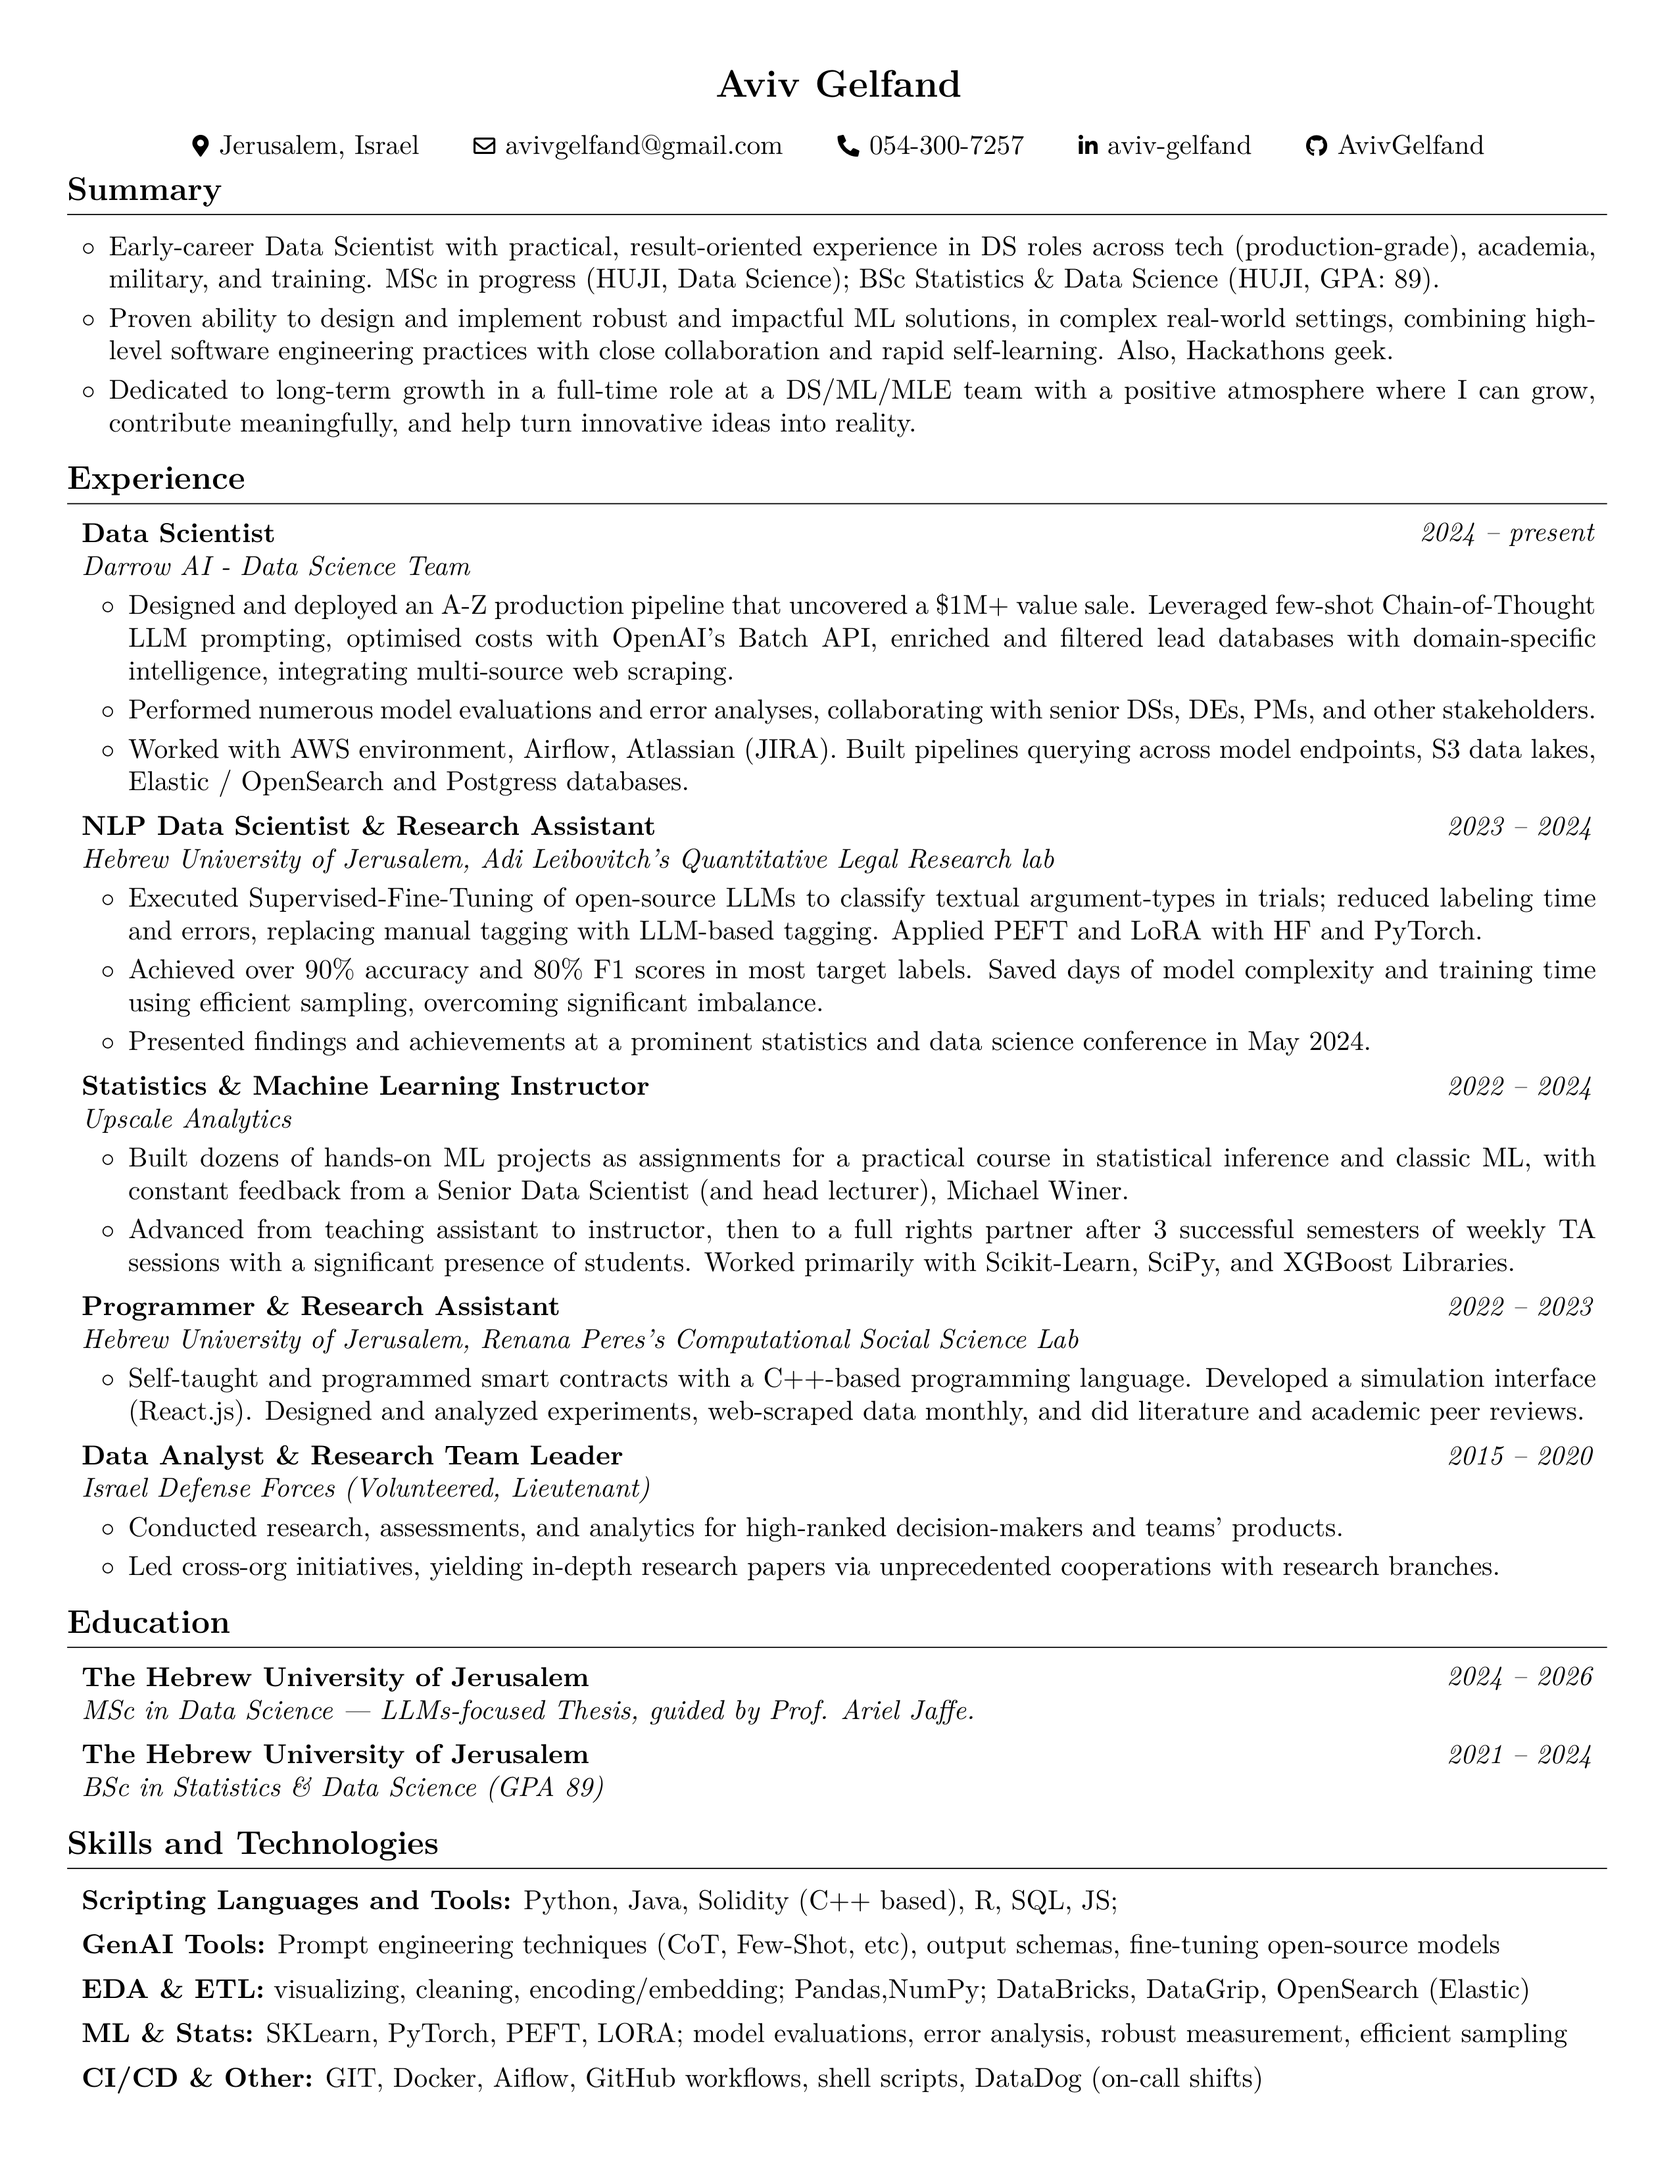
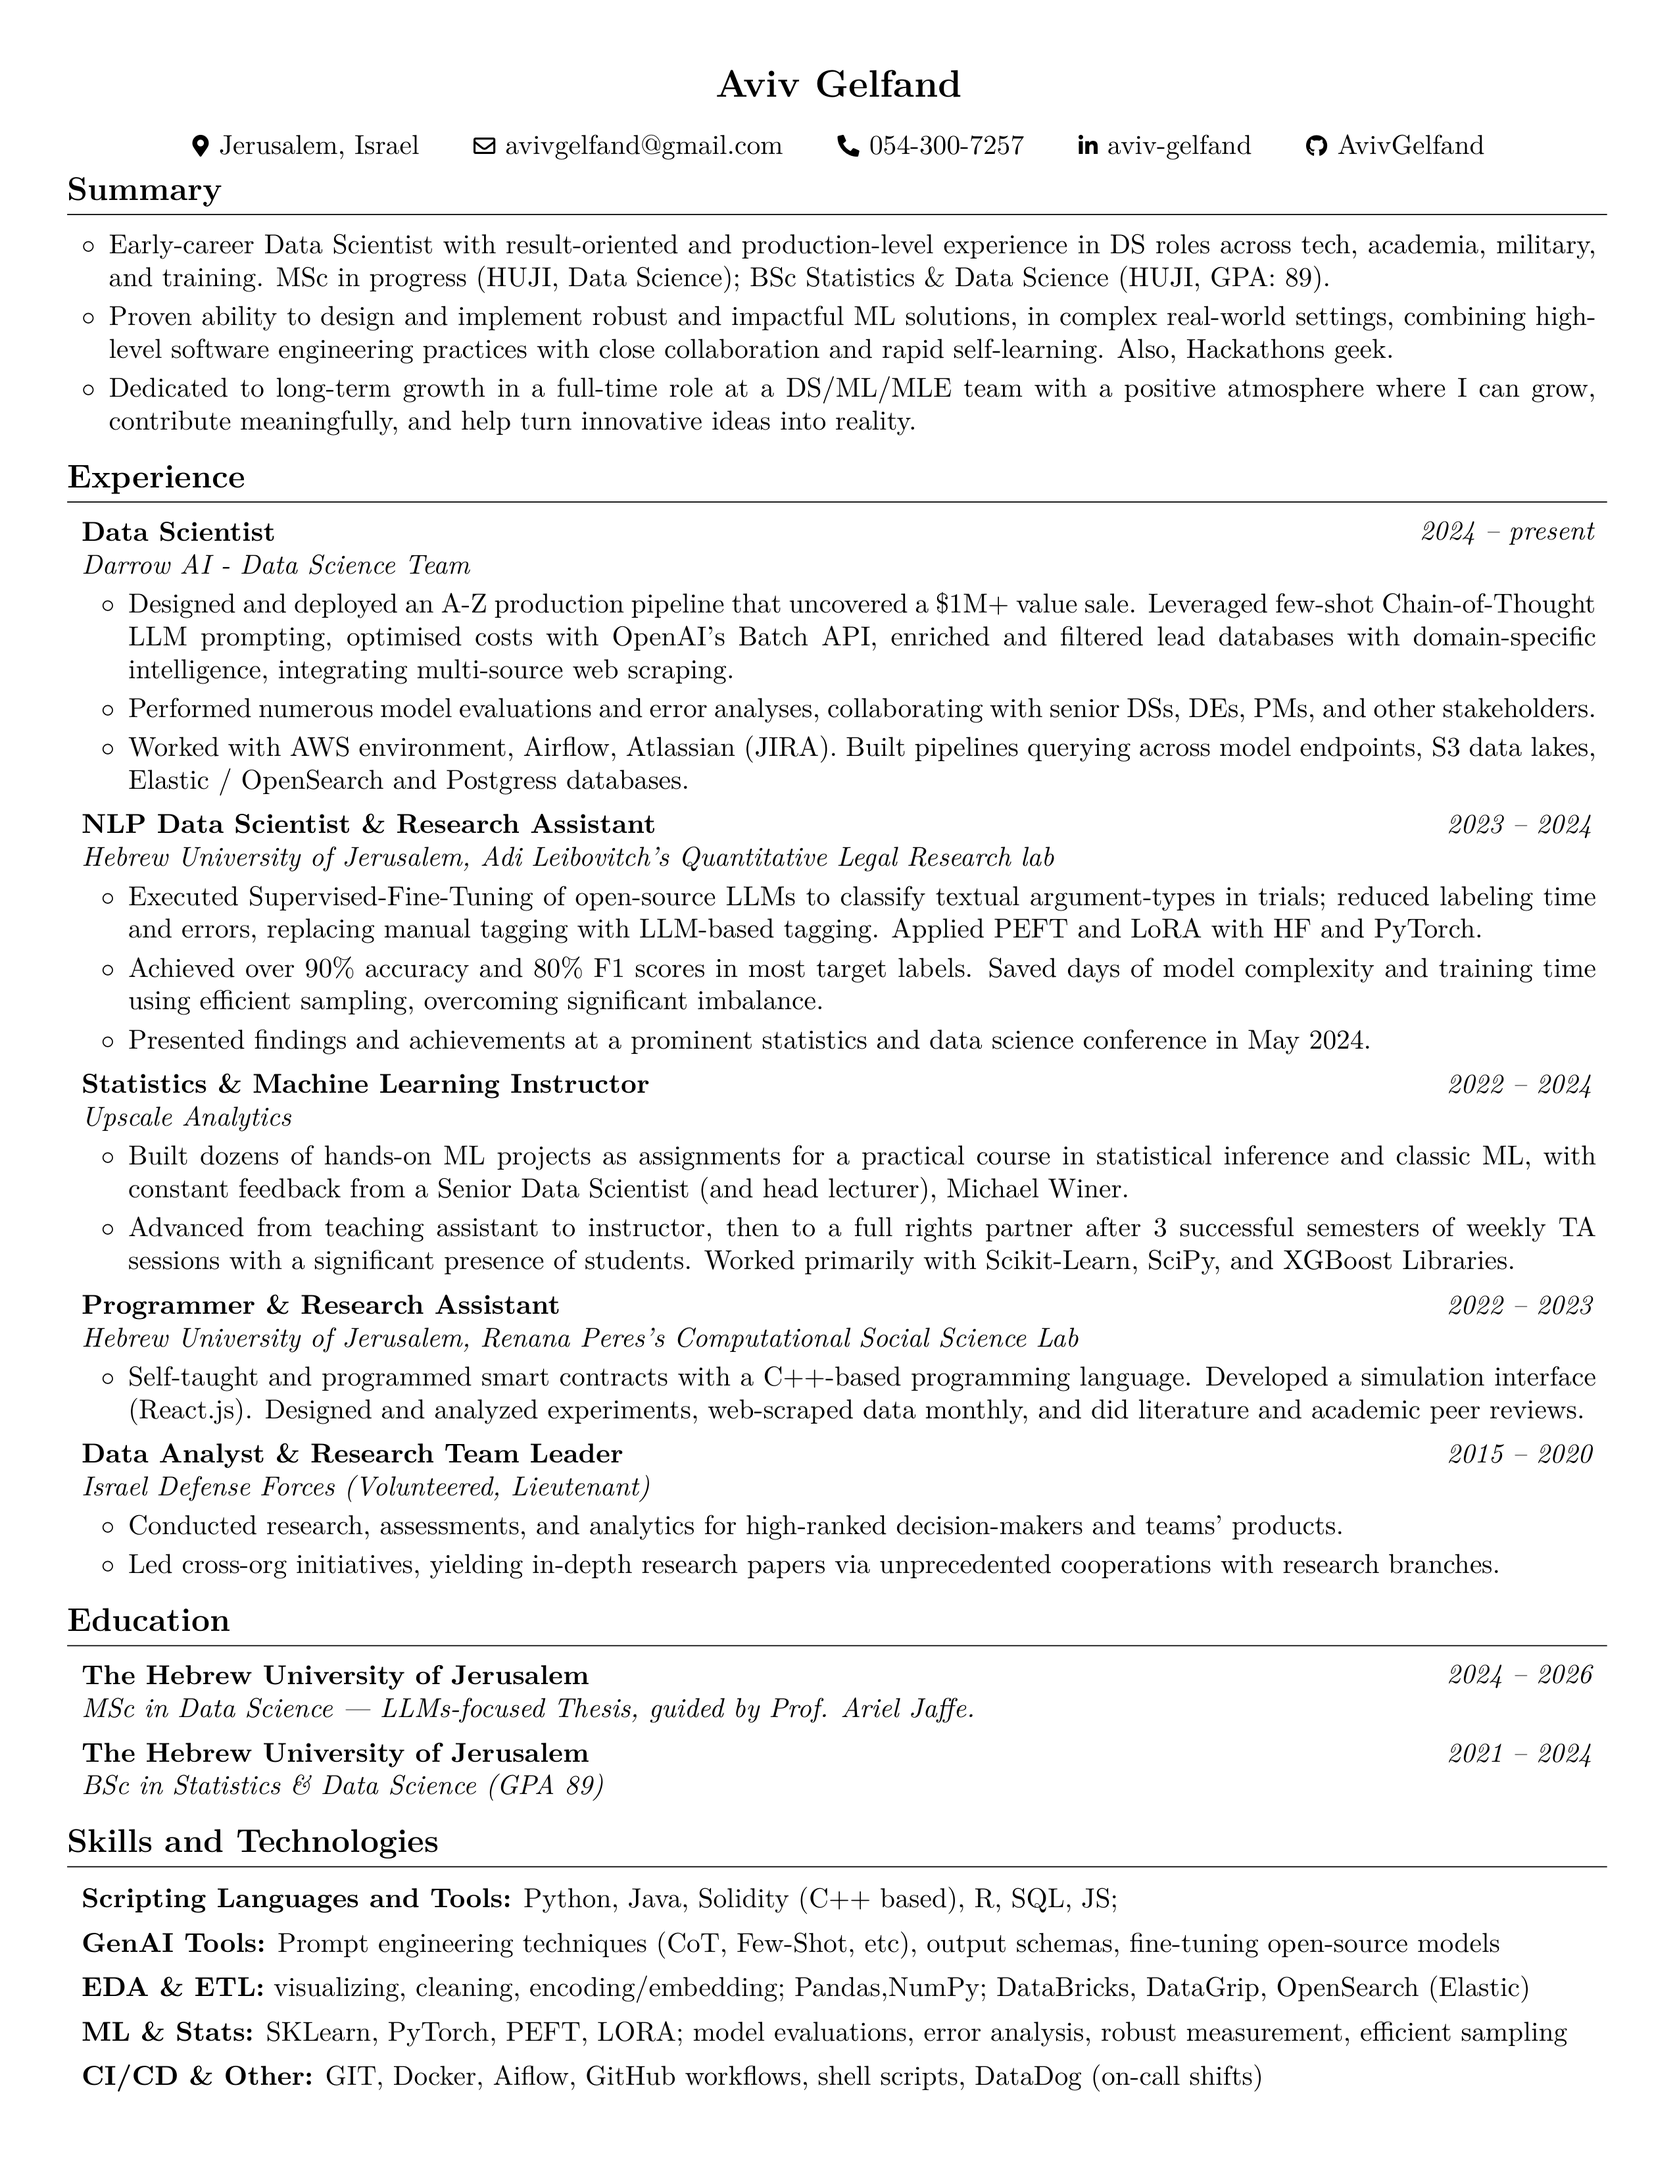
Render the latest CV

diff --git a/Aviv_Gelfand_CV.html b/Aviv_Gelfand_CV.html
@@ -42,7 +42,7 @@
         </ul>
         <h1>Summary</h1>
         <ul>
-        <li>Early-career Data Scientist with practical, result-oriented experience in DS roles across tech (production-grade), academia, military, and training. MSc in progress (HUJI, Data Science); BSc Statistics &amp; Data Science (HUJI, GPA: 89).</li>
+        <li>Early-career Data Scientist with result-oriented and production-level experience in DS roles across tech, academia, military, and training. MSc in progress (HUJI, Data Science); BSc Statistics &amp; Data Science (HUJI, GPA: 89).</li>
         <li>Proven ability to design and implement robust and impactful ML solutions, in complex real-world settings, combining high-level software engineering practices with close collaboration and rapid self-learning. Also, Hackathons geek.</li>
         <li>Dedicated to long-term growth in a full-time role at a DS/ML/MLE team with a positive atmosphere where I can grow, contribute meaningfully, and help turn innovative ideas into reality.</li>
         </ul>

diff --git a/Aviv_Gelfand_CV.tex b/Aviv_Gelfand_CV.tex
@@ -181,7 +181,7 @@
         \begin{highlightsforbulletentries}
 
 
-        \item Early-career Data Scientist with practical, result-oriented experience in DS roles across tech (production-grade), academia, military, and training. MSc in progress (HUJI, Data Science); BSc Statistics \& Data Science (HUJI, GPA: 89).
+        \item Early-career Data Scientist with result-oriented and production-level experience in DS roles across tech, academia, military, and training. MSc in progress (HUJI, Data Science); BSc Statistics \& Data Science (HUJI, GPA: 89).
 
         \item Proven ability to design and implement robust and impactful ML solutions, in complex real-world settings, combining high-level software engineering practices with close collaboration and rapid self-learning. Also, Hackathons geek.
 

diff --git a/README.md b/README.md
@@ -11,7 +11,7 @@
 
 # Summary
 
-- Early-career Data Scientist with practical, result-oriented experience in DS roles across tech (production-grade), academia, military, and training. MSc in progress (HUJI, Data Science); BSc Statistics & Data Science (HUJI, GPA: 89).
+- Early-career Data Scientist with result-oriented and production-level experience in DS roles across tech, academia, military, and training. MSc in progress (HUJI, Data Science); BSc Statistics & Data Science (HUJI, GPA: 89).
 - Proven ability to design and implement robust and impactful ML solutions, in complex real-world settings, combining high-level software engineering practices with close collaboration and rapid self-learning. Also, Hackathons geek.
 - Dedicated to long-term growth in a full-time role at a DS/ML/MLE team with a positive atmosphere where I can grow, contribute meaningfully, and help turn innovative ideas into reality.
 # Experience
